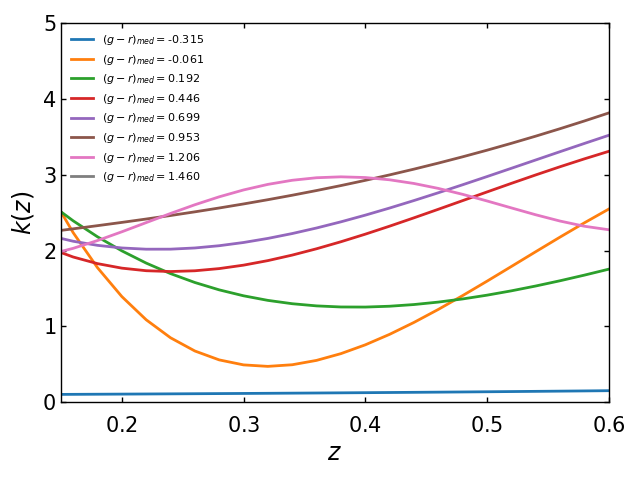
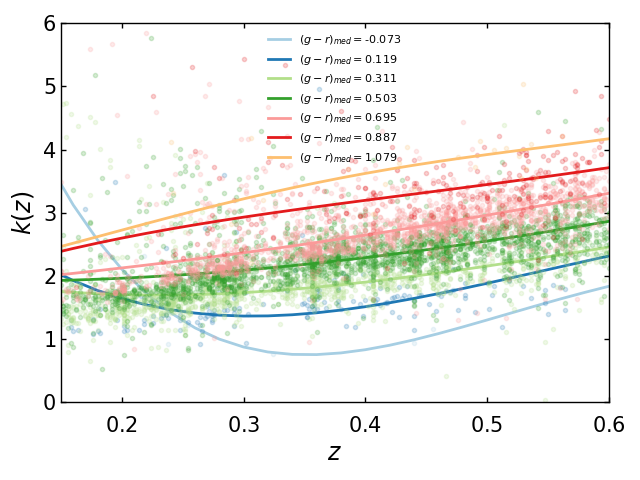
check the k-correction.

Changed region(s): [[0.0625, 0.0625, 0.9688, 0.7812], [0.0938, 0.8125, 0.9375, 0.8438], [0.0625, 0.0312, 0.0938, 0.0625]]

diff --git a/k_correction.py b/k_correction.py
@@ -13,25 +13,24 @@ fcsv = 'minijpas_pdr201912_cat_wAbsMag_v1.csv'
 fout = './Data_Output/'
 
 h = 0.6774
-num_bins = 8
+num_bins = 7
+
+## num_bins-1 g-r colour bins
 def calc_kcor(izz, rapp, iabs):
     Dl = Cfunc.Distfunc(izz, unit = 'Mpc', ih = h)
     k_04 = rapp - 5*np.log10(Dl) - 25. - iabs + 5*np.log10(h)
     return k_04
 
-#a=1.4+5.*np.log10(2.64/10)
-#a=-1.46+5.*np.log10(10/2.64)
-
 fdata = pd.read_csv(fpath + fcsv)
 fdata_array = np.array(fdata)
-iband_abs = fdata.get('i_abs') #- 5*np.log10(h)
+iband_abs = fdata.get('i_abs')
 rband_app = fdata.get('mag_r_auto')
 g_r = fdata.get('g_abs') - fdata.get('r_abs')
 photoz = fdata.get('PHOTOZ')
 
-## delete the stars with CLASS_STAR <= 0.5
+## delete the stars with CLASS_STAR > 0.5
 stars = fdata.get('CLASS_STAR')
-stars_index = (stars[stars.values<=0.5]).index
+stars_index = (stars[stars.values>0.5]).index
 iband_abs = iband_abs.drop(stars_index)
 rband_app = rband_app.drop(stars_index)
 g_r = g_r.drop(stars_index)
@@ -46,6 +45,7 @@ iband_abs = iband_abs.drop(z0_index)
 rband_app = rband_app.drop(z0_index)
 g_r = g_r.drop(z0_index)
 zz = photoz.drop(z0_index)
+#photoz[z0_index] = 1.e-6
 
 ## bin g_r range
 #g_r_range = [-100, -0.18, 0.35, 0.52, 0.69, 0.86, 1.03, 100.]
@@ -54,6 +54,7 @@ g_r_bin_index = [[] for i in range(num_bins)]
 p1_txt = [[] for i in range(num_bins)]
 g_r_median = np.zeros(num_bins)
 
+colors=plt.get_cmap('Paired')
 plt.figure(1, (18, 16))
 for i in range(num_bins):
     g_r_median[i] = (g_r_range[i] + g_r_range[i + 1])/2.
@@ -61,19 +62,9 @@ for i in range(num_bins):
     g_r_bin_index[i].append(aa)
     index = np.array(g_r_bin_index[i][0])
     k0 = calc_kcor(np.array(zz[index]), np.array(rband_app[index]), np.array(iband_abs[index]))
-    #kcor = np.array(np.column_stack([np.array(photoz[index]), k0]))
-    #print(zz, k0)
 
     ## plot points.
-    """
-    plt.plot(zz[index], k0, '.')
-    plt.xlim([0, 1.5])
-    plt.xticks([0, 0.2, 0.4, 0.6, 0.8, 1.0, 1.2, 1.4], (r'$0$', r'$0.2$', r'$0.4$', r'$0.6$', r'$0.8$', r'$1.0$', r'$1.2$', r'$1.4$'), fontsize = 15)
-    plt.xlabel(r'$z$', fontsize = 17)
-    plt.ylabel(r'$k(z)$', fontsize = 17)
-    plt.tight_layout()
-    plt.show()
-    """
+    plt.plot(zz[index], k0, '.', alpha = 0.2, color = colors(i))
 
     ## assign polynomial
     z1 = np.polyfit(zz[index], k0, 4)
@@ -84,15 +75,17 @@ for i in range(num_bins):
     ## plot polynomial
     #y = lambda x: z1[0]*x**4 + z1[1]*x**3 + z1[2]*x**2 + z1[3]*x + z1[4]
     xx = np.arange(0, 1.5, 0.02)
-    plt.plot(xx, p1(xx), '-', label = r'$(g-r)_{med}=$%.3f'%g_r_median[i])
+    plt.plot(xx, p1(xx), '-', label = r'$(g-r)_{med}=$%.3f'%g_r_median[i], color = colors(i))
 
-np.savetxt('./Data_Output/Kcorrection/k_correction_polyfac.txt', np.hstack([g_r_range[:-1].reshape(8, 1), g_r_range[1:].reshape(8, 1), np.array(p1_txt).reshape(8, 5), g_r_median.reshape(8, 1)]), fmt = '%.9s')
+np.savetxt('./Data_Output/Kcorrection/k_correction_coefficient.txt', np.hstack([g_r_range[:-1].reshape(num_bins, 1), g_r_range[1:].reshape(num_bins, 1), np.array(p1_txt).reshape(num_bins, 5), g_r_median.reshape(num_bins, 1)]), fmt = '%.9s')
 
+#plt.xlim([0, 1.5])
+#plt.xticks([0, 0.2, 0.4, 0.6, 0.8, 1.0, 1.2, 1.4], (r'$0$', r'$0.2$', r'$0.4$', r'$0.6$', r'$0.8$', r'$1.0$', r'$1.2$', r'$1.4$'), fontsize = 15) 
 plt.xlim([0.15, 0.6])
 plt.xticks([0.2, 0.3, 0.4, 0.5, 0.6], (r'$0.2$', r'$0.3$', r'$0.4$', r'$0.5$', r'$0.6$'), fontsize = 15)
 plt.xlabel(r'$z$', fontsize = 17)
 plt.ylim([0, 5])
-plt.yticks([0, 1, 2, 3, 4, 5], (r'$0$', r'$1$', r'$2$', r'$3$', r'$4$', r'$5$'), fontsize = 15)
+plt.yticks([0, 1, 2, 3, 4, 5, 6], (r'$0$', r'$1$', r'$2$', r'$3$', r'$4$', r'$5$', r'$6$'), fontsize = 15)
 plt.ylabel(r'$k(z)$', fontsize = 17)
 plt.legend(loc = 'best', frameon = False, fontsize = 8)
 plt.tight_layout()
